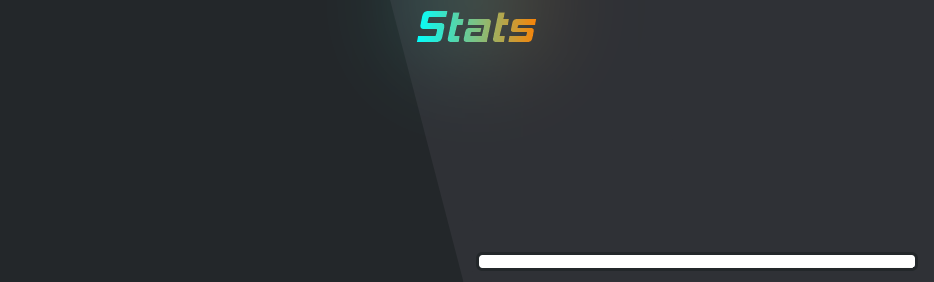
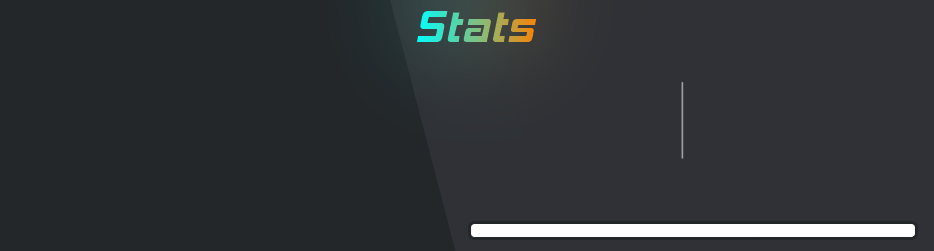
Improved style of rank card

Changed region(s): [[0.4968, 0.8924, 0.9936, 0.9761], [0.4347, 0.0279, 0.5899, 0.1673]]

diff --git a/lib/experience/gen_rank_card.py b/lib/experience/gen_rank_card.py
@@ -12,12 +12,12 @@ from lib.utils.utils import shortened, read_file
 async def generate_rank_card(stats: ExperienceStats) -> File:
     editor: Editor = Editor(Image.new(
         mode="RGBA",
-        size=(934, 282),
+        size=(934, 251),
         color=(48, 51, 55, 255)
     ))
     editor.bar(
-        position=(476, 252),
-        max_width=442,
+        position=(468, 221),
+        max_width=446,
         height=19,
         percentage=round((stats.xp / level_size(stats.level))*100),
         color=(238, 136, 17)
@@ -61,28 +61,59 @@ async def generate_rank_card(stats: ExperienceStats) -> File:
         )
     ]
     editor.multi_text(
-        position=(840, 115),
+        position=(694, 100),
         texts=rank,
-        align="right",
+        space_separated=False
+    )
+
+    _percentile: float = (stats.rank / stats.member.guild.member_count) * 100
+    if _percentile <= 0.01:
+        percentile: tuple[str, str] = "TOP ", "  0.01"
+    elif _percentile <= 50:
+        percentile: tuple[str, str] = "TOP ", f"  {(round(_percentile, 2))}"
+    else:
+        percentile: tuple[str, str] = "BOTTOM ", f" {round(100 - _percentile, 2)}"
+    del _percentile
+
+    percentile: list[Text] = [
+        Text(
+            text=f"{percentile[0]}",
+            color=(163, 166, 170),
+            font=Font(path="./assets/fonts/Roboto-Regular.ttf", size=22)
+        ),
+        Text(
+            text=f"{percentile[1]}",
+            color=(238, 136, 17),
+            font=Font(path="./assets/fonts/Roboto-Regular.ttf", size=35)
+        ),
+        Text(
+            text=f"%",
+            color=(255, 255, 255),
+            font=Font(path="./assets/fonts/Roboto-Regular.ttf", size=35)
+        )
+    ]
+    editor.multi_text(
+        position=(694, 140),
+        texts=percentile,
         space_separated=False
     )
 
     messages: list[Text] = [
         Text(
-            text=f"MESSAGES",
-            color=(163, 166, 170),
-            font=Font(path="./assets/fonts/Roboto-Regular.ttf", size=22),
-        ),
-        Text(
-            text=f" {shortened(stats.message_amount)}",
+            text=f"{shortened(stats.message_amount)}",
             color=(238, 136, 17),
             font=Font(path="./assets/fonts/Roboto-Regular.ttf", size=35),
+        ),
+        Text(
+            text=f"MESSAGE{'S' if stats.message_amount != 1 else ''}",
+            color=(163, 166, 170),
+            font=Font(path="./assets/fonts/Roboto-Regular.ttf", size=22),
         )
     ]
     editor.multi_text(
-        position=(495, 115),
+        position=(661, 100),
         texts=messages,
-        align="left"
+        align="right"
     )
 
     level: list[Text] = [
@@ -98,13 +129,12 @@ async def generate_rank_card(stats: ExperienceStats) -> File:
         )
     ]
     editor.multi_text(
-        position=(495, 155),
-        texts=level,
-        align="left"
+        position=(475, 203),
+        texts=level
     )
 
     editor.text(
-        position=(910, 225),
+        position=(910, 194),
         text=f"{shortened(stats.xp)} / {shortened(level_size(stats.level))} XP",
         align="right",
         color=(255, 255, 255),
